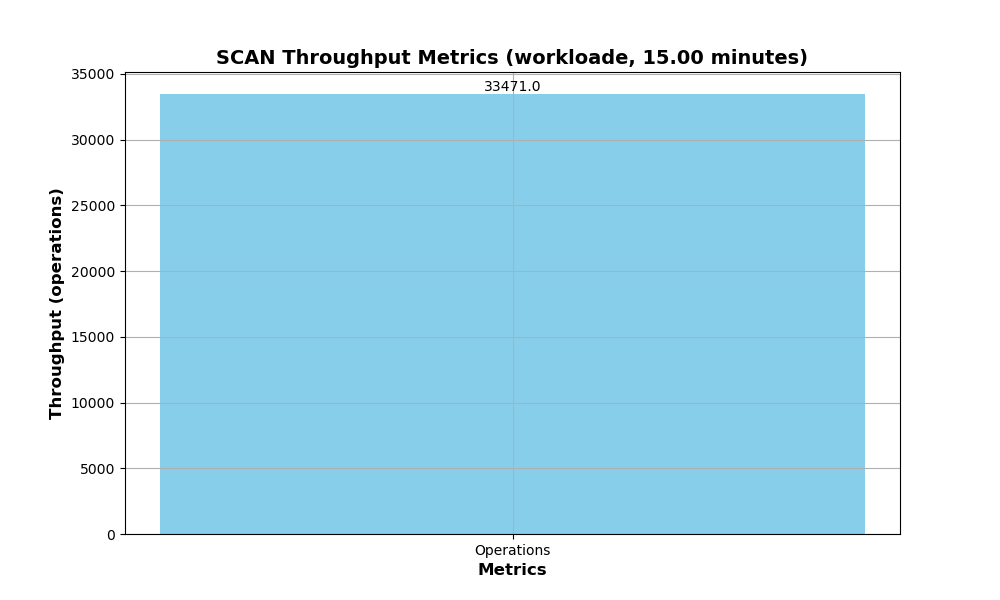
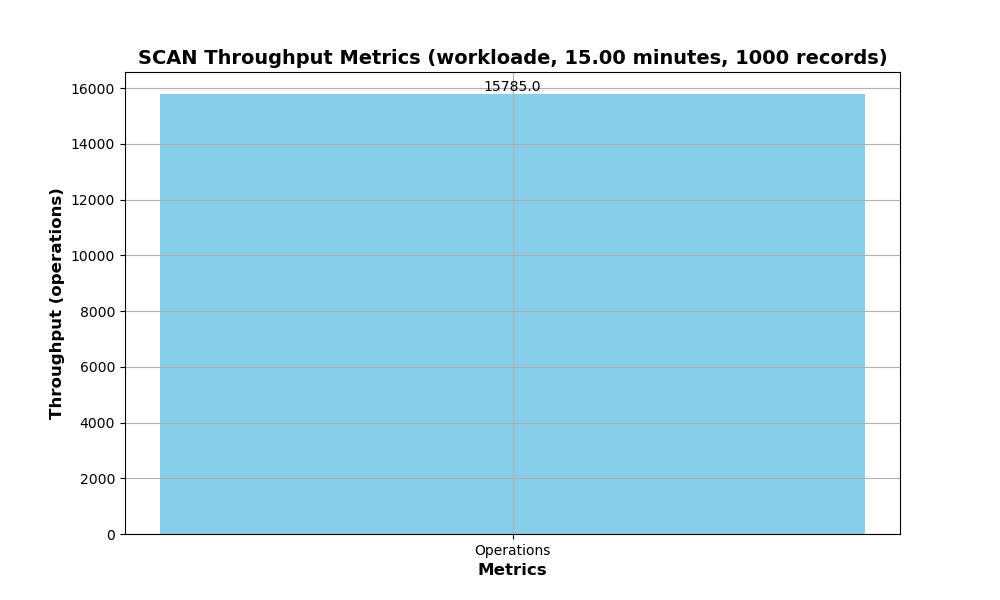
run ycsb from docker container

diff --git a/src/plot_builder.py b/src/plot_builder.py
@@ -4,7 +4,6 @@ import numpy as np
 import sys
 import os
 
-
 # Plots the throughput of a single configuration
 def plot_latency(
     csv_path,
@@ -12,6 +11,7 @@ def plot_latency(
     workload,
     configuration,
     operation,
+    num_records,
     output_dir="plots/latency",
 ):
     # Check if output directory exists and create if not
@@ -57,7 +57,7 @@ def plot_latency(
     plt.xlabel("Metrics", fontsize=12, fontweight="bold")
     plt.ylabel("Latency (us)", fontsize=12, fontweight="bold")
     plt.title(
-        f"{operation} Latency Metrics ({workload}, {float(duration_seconds)/60:.2f} minutes)",
+        f"{operation} Latency Metrics ({workload}, {float(duration_seconds)/60:.2f} minutes, {num_records} records)",
         fontsize=14,
         fontweight="bold",
     )
@@ -76,6 +76,7 @@ def plot_throughput(
     workload,
     configuration,
     operation,
+    num_records,
     output_dir="plots/throughput",
 ):
     # Create output dir if it doesn't exist
@@ -119,7 +120,7 @@ def plot_throughput(
     plt.xlabel("Metrics", fontsize=12, fontweight="bold")
     plt.ylabel("Throughput (operations)", fontsize=12, fontweight="bold")
     plt.title(
-        f"{operation} Throughput Metrics ({workload}, {float(duration_seconds)/60:.2f} minutes)",
+        f"{operation} Throughput Metrics ({workload}, {float(duration_seconds)/60:.2f} minutes, {num_records} records)",
         fontsize=14,
         fontweight="bold",
     )
@@ -136,6 +137,7 @@ def plot_grouped_latency(
     duration_seconds,
     workload,
     operation,
+    num_records,
     directory="output/csv",
     output_dir="plots/latency",
 ):
@@ -155,7 +157,7 @@ def plot_grouped_latency(
     # Collect metrics and their labels for each configuration's CSV data
     for filename in os.listdir(directory):
         if filename.endswith(".csv"):
-            files.append(filename[:-4])
+            files.append(filename[:-4])  # Store filename without extension
             csv_path = os.path.join(directory, filename)
             df = pd.read_csv(csv_path)
             scan_df = df[df["OP"].str.contains(operation)]
@@ -207,7 +209,7 @@ def plot_grouped_latency(
     ax.set_xlabel("Metric", fontsize=12, fontweight="bold")
     ax.set_ylabel("Latency (us)", fontsize=12, fontweight="bold")
     ax.set_title(
-        f"{operation} Latency Metrics by Configuration ({workload}, {float(duration_seconds)/60:.2f} minutes)",
+        f"{operation} Latency Metrics by Configuration ({workload}, {float(duration_seconds)/60:.2f} minutes, {num_records} records)",
         fontsize=14,
         fontweight="bold",
     )
@@ -229,6 +231,7 @@ def plot_grouped_throughput(
     duration_seconds,
     workload,
     operation,
+    num_records,
     directory="output/csv",
     output_dir="plots/throughput",
 ):
@@ -296,7 +299,7 @@ def plot_grouped_throughput(
     ax.set_xlabel("Metric", fontsize=12, fontweight="bold")
     ax.set_ylabel("Throughput (operations)", fontsize=12, fontweight="bold")
     ax.set_title(
-        f"{operation} Throughput Metrics by Configuration ({workload}, {float(duration_seconds)/60:.2f} minutes)",
+        f"{operation} Throughput Metrics by Configuration ({workload}, {float(duration_seconds)/60:.2f} minutes, {num_records} records)",
         fontsize=14,
         fontweight="bold",
     )
@@ -315,14 +318,17 @@ def plot_grouped_throughput(
 
 # Entry point
 if __name__ == "__main__":
-    if len(sys.argv) < 5:
+    if len(sys.argv) < 6:
         print(
-            "Usage: python3 throughput.py <csv_file> <duration_seconds> <workload> <configuration> <operation>"
+            "Usage: python3 throughput.py <csv_file> <duration_seconds> <workload> <configuration> <operation> <num_records>"
         )
         sys.exit(1)
 
-    plot_latency(sys.argv[1], sys.argv[2], sys.argv[3], sys.argv[4], sys.argv[5])
-    plot_throughput(sys.argv[1], sys.argv[2], sys.argv[3], sys.argv[4], sys.argv[5])
-    plot_grouped_latency(sys.argv[2], sys.argv[3], sys.argv[5])
-    plot_grouped_throughput(sys.argv[2], sys.argv[3], sys.argv[5])
-    
+    plot_latency(
+        sys.argv[1], sys.argv[2], sys.argv[3], sys.argv[4], sys.argv[5], sys.argv[6]
+    )
+    plot_throughput(
+        sys.argv[1], sys.argv[2], sys.argv[3], sys.argv[4], sys.argv[5], sys.argv[6]
+    )
+    plot_grouped_latency(sys.argv[2], sys.argv[3], sys.argv[5], sys.argv[6])
+    plot_grouped_throughput(sys.argv[2], sys.argv[3], sys.argv[5], sys.argv[6])

diff --git a/README.md b/README.md
@@ -32,13 +32,15 @@ We will run our workflow using the `run_workflow.sh` script. This script does th
 
 The usage of the script is:
 ```
-./run_workflow.sh <config> <duration_seconds> <operation> <workload>
+./run_workflow.sh [-c] <config> <duration_seconds> <operation> <workload> <num_records>
 ```
 where:
+- `-c` is the optional flag specifying whether to cleanup and remove images and containers created by the workflow run
 - `config` is one of the supported values `default`, `lcs`, `rowcache`, `lcs-rowcache`
 - `duration_seconds` is the duration in seconds to run the benchmark 
 - `operation` is the operation we are benchmarking using YCSB (e.g. SCAN, READ, INSERT, etc)
 - `workload` is the workload we are using from YCSB (e.g. workloada, workloadb, workloadc, etc)
+- `num_records` is the number of records to load for the benchmark
 
 All arguments are required in the order above.
 
@@ -51,7 +53,7 @@ We compare the benchmarks of several configurations for the SCAN operation:
 - Use row cache
 - Use both LCS and row cache
 
-For the row cache, we set the limit to 10 GB, and cache all keys and rows per partition.
+For the row cache, we set the limit to 10 GB, and cache all keys and rows per partition. We test with 100,000 records.
 
 Here is the setup that we use:
 - 1 node cluster in Docker container
@@ -61,14 +63,13 @@ Here is the setup that we use:
 We run the benchmark on `workloade` which has a 95:5 SCAN to INSERT ratio, but set the number of operations to the max and run for 15 minutes.
 
 ### Running the benchmarks
-
 We run the benchmark workflow for each of the 4 configurations, profiling the SCAN operation for workload e using: 
 ```
 chmod +x run_workflow.sh
-./run_workflow.sh default 900 SCAN workloade
-./run_workflow.sh lcs 900 SCAN workloade
-./run_workflow.sh rowcache 900 SCAN workloade
-./run_workflow.sh lcs-rowcache 900 SCAN workloade
+./run_workflow.sh -c default 900 SCAN workloade 1000
+./run_workflow.sh -c lcs 900 SCAN workloade 1000
+./run_workflow.sh -c rowcache 900 SCAN workloade 1000
+./run_workflow.sh -c lcs-rowcache 900 SCAN workloade 1000
 ```
 
 ### Results
@@ -78,17 +79,23 @@ Below are the results comparing the latencies (mean, P95, P99) for each configur
 ![Grouped Throughput Plot](./plots/read-only-do-not-modify/scan-e/throughput/grouped-throughput-plot.png)
 
 #### Average Latency and Throughput
-We can see that the default configuration has the highest average latency and 2nd to worst throughput, which implies that it's the worst, not by any significant margin, without any specific optimizations for the usage pattern. The row cache configuration had the lowest average latency. However this result should be taken with a grain of salt since while running the workflow, I ran `node exec -it cassandra nodetool info` several times, and noticed that the rowcache has 0% utilization and 0% hit rate. Thus it appears that this is not the reason the performance improved and it may have been random.
+We can see that the default configuration has the highest average latency and 2nd to worst throughput, which implies that it's the worst, not by any significant margin, without any specific optimizations for the usage pattern. 
 
-Performance wise, all were very close.
+Using LCS compaction had a slight improvement in latency, but didn't improve throughput.
+
+Enabling the row cache actually worsened latency.
 
 #### P95 and P99 Latency and Throughput
-Again, enabling row cache performs around the best for SCAN heavy patterns, but by a very small margin. LCS also appears to have a slight performance improvement compared to the base default configuration. The default configuration and the configuration with both enabled doesn't improve performance.
+Again, enabling row cache worsened latency a bit. 
+
+LCS also once again appears to have a slight latency performance improvement compared to the base default configuration. 
 
 #### Discussion
-The row cache in cassandra is ideal for point queries that randomly access by key, or read operations that often read the same rows. Thus, row caching is not optimized for sequential scan operations.
+The row cache in cassandra is ideal for point queries that randomly access by key, or read operations that often read the same rows. Thus, row caching is not optimized for sequential scan operations. Enabling row caching could be causing some extra overhead. However, I ran `node exec -it cassandra nodetool info` several times, and noticed that the rowcache had 0% utilization and 0% hit rate, so it could be due to something else internally or to just performance variation.
 
-LCS performed slightly better that the default. But when combined with row cache, gave the worst performance which could be due to extra overhead. LCS is optimized to improve read performance by reducing the number of SSTables accessed from disk during reads. However, for scan-heavy workloads, this may not improve perfomance since scans involve reading a large volume of data sequentially.
+LCS performed slightly better that the default. LCS is optimized to improve query performance by reducing the number of SSTables accessed from disk, which could explain the slight latency improvement.
+
+Using both LCS and rowcache slightly worsened latency, except for in the P99 metric. By not much, it had a miniscule increase in throughput.
 
 ## READ profiling
 We compare the benchmarks of several configurations for the READ operation:
@@ -97,7 +104,7 @@ We compare the benchmarks of several configurations for the READ operation:
 - Use row cache
 - Use both LCS and row cache
 
-For the row cache, we set the limit to 10 GB, and cache all keys and rows per partition.
+For the row cache, we set the limit to 10 GB, and cache all keys and rows per partition. We test with 100,000 records.
 
 Here is the setup that we use:
 - 1 node cluster in Docker container
@@ -106,13 +113,26 @@ Here is the setup that we use:
 
 We run the benchmark on `workloadd` which has a 95:5 READ to INSERT ratio, but set the number of operations to the max and run for 15 minutes.
 
+### Running the benchmarks
+We run the benchmark workflow for each of the 4 configurations, profiling the READ operation for workload d using: 
+```
+chmod +x run_workflow.sh
+./run_workflow.sh -c default 900 READ workloadd 1000
+./run_workflow.sh -c lcs 900 READ workloadd 1000
+./run_workflow.sh -c rowcache 900 READ workloadd 1000
+./run_workflow.sh -c lcs-rowcache 900 READ workloadd 1000
+```
+
 ### Results
 Below are the results comparing the latencies (mean, P95, P99) for each configuration.
 
 #### Average Latency and Throughput
 
-Performance wise, all were very close.
+
+
 
 #### P95 and P99 Latency and Throughput
 
 #### Discussion
+
+I ran `node exec -it cassandra nodetool info` several times with rowcache enabled and set to ALL keys and rows per partition, the hit rate hovered around 85+%.
